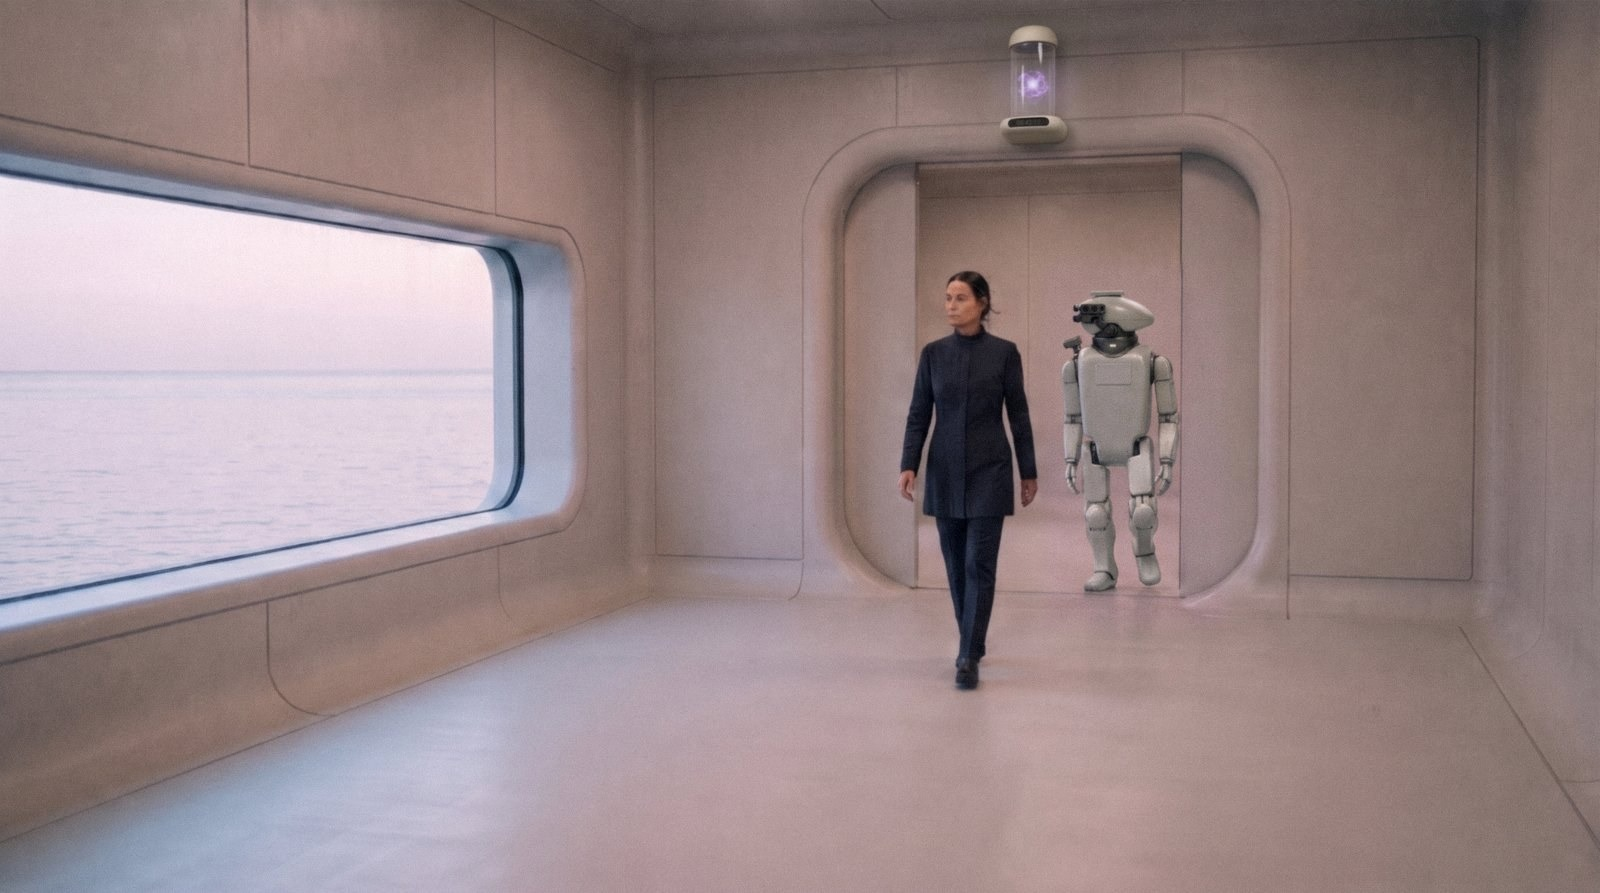
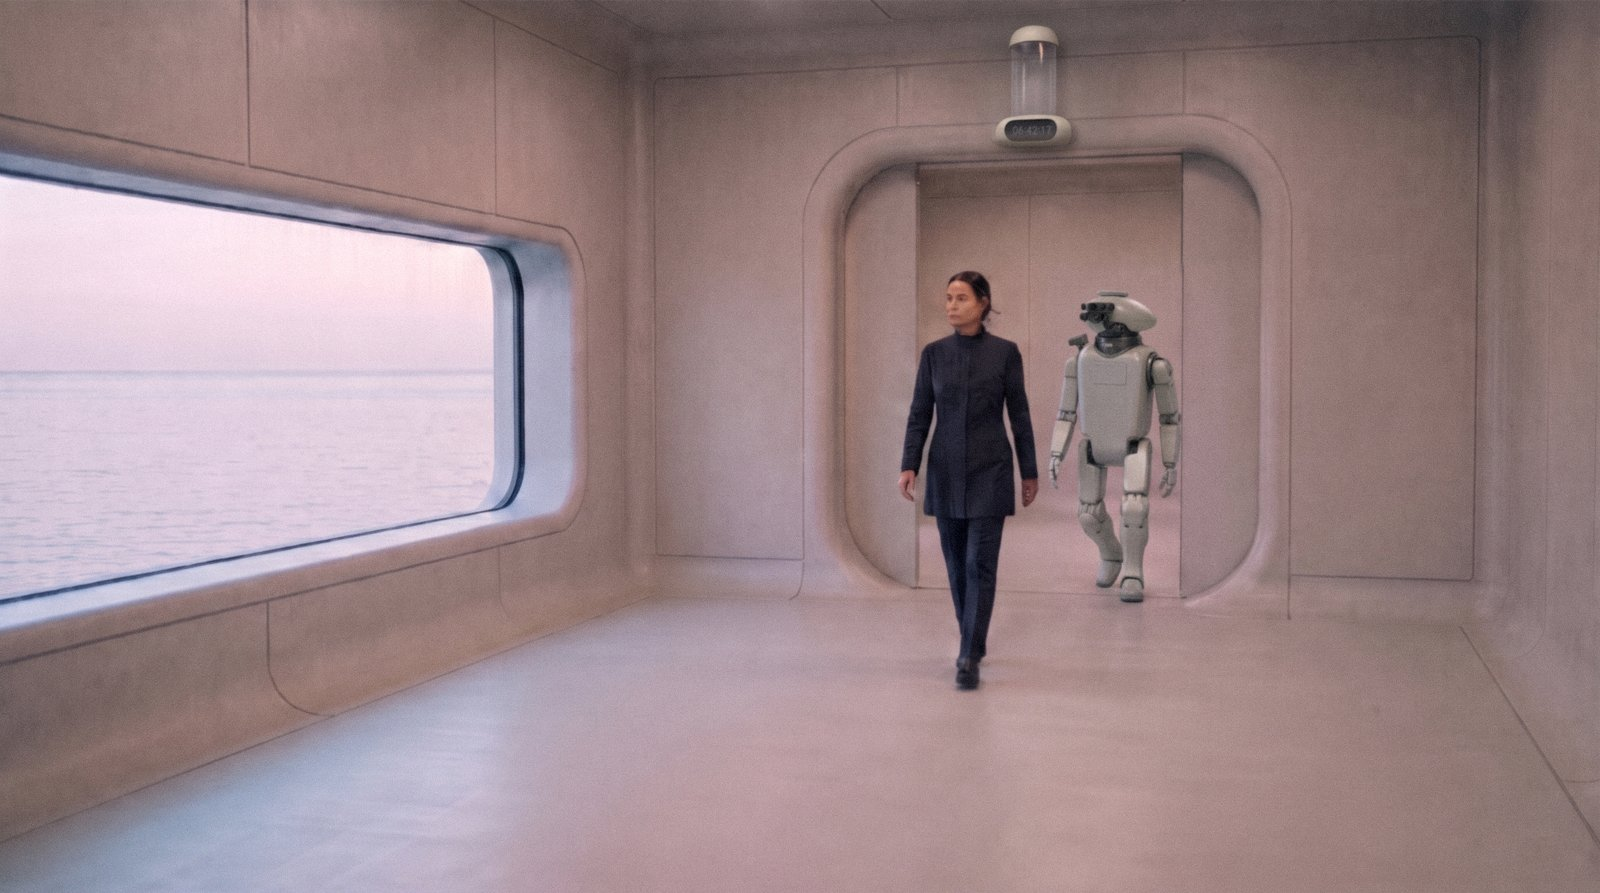
S01E01C01: the clock reads as a clock, Rook-7 walks
Glow gone and a wide readout showing 06:42:17; Rook-7 mid-stride with a
bent knee and swinging arms, body unchanged. Two edit rounds composited,
digits set by script. Dermot's "Clock and robot".

Changed region(s): [[0.625, 0.3326, 0.75, 0.6954], [0.625, 0.0605, 0.6875, 0.1512], [0.5625, 0.4535, 0.5938, 0.4838]]

diff --git a/story-bible/image-prompts.md b/story-bible/image-prompts.md
@@ -6302,3 +6302,22 @@ No generator: deterministic cards from `make-codex-cover.ps1` with the new `-Acc
 .\scripts\make-codex-cover.ps1 -TitleLines "THE TWO SONGS","OF THE LOUD PEOPLE" -Category "XENOLOGY RECORD" -Subtitle "A Keeper's Account of Humanity" -Institution "Rendered from Chorus-Keeping · Archive Translation Desk" -Author "KEEPER VHEN OF THAVREN" -Stamp "RENDERED" -Motif dissolution -Accent "#9FC8A6" -Symbol open -Out src\images\codex\the-two-songs-of-the-loud-people.jpg
 .\scripts\make-codex-cover.ps1 -TitleLines "WHAT THE","STONES SAY" -Category "CULTURAL RECORD" -Institution "Survey Archive, Threshold Station" -Author "ODAL FERREN, LINE-KEEPER, QUERN" -Motif rules -Accent "#B3A4D4" -Symbol leaves -Out src\images\codex\what-the-stones-say.jpg
 ```
+
+## 2026-11-24 — S01E01C01: the clock reads as a clock, Rook-7 walks (Opus, desktop)
+
+Dermot asked of the frame *"Does this image look like a clock above a door or some kind of AI monitoring system?"* and *"Does the robot look clumsy and awkward in that image?"*. Read for him: the glowing violet cylinder read as an AI core and the readout was too small to see; Rook-7 walked stiff-legged with dead arms. He chose *"Clock and robot"*. An image fix, so Opus (fable-delegation).
+
+### chapters/s01e01c01.jpg — re-filed 24 November 2026
+- **Kind:** an edit of the filed frame, with a reference, then a composite of two takes and readout digits set by script.
+- **Source:** the filed `s01e01c01.jpg`; reference `story-bible/reference-art/rook-7-body-2026-11-16.jpg` (the machine only).
+- **Run:** `scripts/image-edit.js`, two rounds. Round 1 (the prompt below without its *pixel for pixel* clause): take 1 refused by the provider's filter, take 2 fixed the clock but redrew her face. Round 2 (the prompt below): take 1 kept her face and gave Rook-7 the stride but turned the readout cream; take 2 gave the clearest clock (glow gone, wide dark readout) but put a screen on Rook-7's chest; take 3 refused. **Filed:** round 2 take 1, with take 2's clock pasted in (box 1660,10 to 1940,270 at 2752 px, feathered 14 px), then `set-readouts.py --box 1740,213,70,22 --text 06:42:17`, imported at 1600 px, strength 1, provenance generated.
+- **Note:** this frame's clock now shows no violet glow; the Season 1 hero's clock keeps its faint cloud. The design is the same instrument; the glow is the atoms, which this frame no longer shows.
+- **Prompt:**
+
+> Edit the first image, a photograph. Do not reframe, crop, zoom or redraw the room. Keep everything exactly as it is, pixel for pixel where possible: above all the tall pale woman walking in must stay completely untouched, the very same person with the identical face, features, age, hair, dark high-necked garment, pose and stride, not redrawn; the open rounded pressure seal and its reveal; the pale dock walls and floor; the long window onto the calm sea at dawn; the framing, light, focus and grain. Change only two things.
+>
+> First, the clock high above the open pressure seal. Keep it in the same place, on the same short cream bracket, as the same kind of instrument: an upright clear glass cylinder with a rounded cream cap on a smooth rounded cream base. Make the violet light inside the glass much fainter: a barely visible pale haze, not a glowing cloud, so that nothing in the frame glows. Make the base wider and its dark recessed readout window much larger, a broad matte panel filling most of the front of the base, so that it reads at a glance as the face of a clock. The readout window is matte, unlit and completely blank: no digits, no numerals, no text, no light.
+>
+> Second, the robot walking a few steps behind her through the seal. Keep exactly the same robot, as in the second image: the same tall broad matte pale grey trunk, the same scuffed limb casings, the same low wide rounded head unit on its dark collar with the lens cluster turned aside, at the same size and in the same place. Change only its posture: give it the easy walking stride of a machine that has walked these docks for decades, mid-step, one foot planted and the other leg swinging through with the knee clearly bent, the hips and shoulders turned slightly with the step, the arms swinging a little, loosely, opposite to the legs, the trunk leaning very slightly forward. Unhurried and sure-footed, not stiff, not marching.
+>
+> No other new objects, no screens, no lettering. A documentary photograph, not a render.

diff --git a/src/seasons/s01/e01/s01e01c01.md b/src/seasons/s01/e01/s01e01c01.md
@@ -11,7 +11,7 @@ timestamp: "2826 UCSD, Early Autumn, Dawn"
 location: "Threshold Station, Dock Seven"
 description: "Three very different arrivals converge at Threshold Station as something old begins to stir in the boundary layer."
 image: "s01e01c01.jpg"
-image_alt: "A tall pale woman in a dark high-necked garment walks into a wide pale dock through an open rounded pressure seal, her eyes turned aside to read the room; a broad pale grey robot of an older make, a low wide rounded unit on a dark collar above its shoulders with a lens cluster turned aside, follows a few steps behind her. High above the seal hangs a clock, a glass cylinder with a faint violet glow on a cream base whose small dark readout shows 06:42:17. A long rounded window at the left shows a calm sea under a pink-grey dawn."
+image_alt: "A tall pale woman in a dark high-necked garment walks into a wide pale dock through an open rounded pressure seal, her eyes turned aside to read the room; a broad pale grey robot of an older make, a low wide rounded unit on a dark collar above its shoulders with a lens cluster turned aside, follows a few steps behind her in an easy mid-stride, one knee bent and its arms swinging loosely. High above the seal hangs a clock, a clear glass cylinder on a cream base whose wide dark readout shows 06:42:17. A long rounded window at the left shows a calm sea under a pink-grey dawn."
 canon_facts:
   - "Threshold Station sits where the Interval between two universes narrows; this produces measurable instrument drift."
   - "Krenyi do not interbreed with humans and cannot be enslaved or mythified."

diff --git a/changelog.d/2026-11-24-s01e01c01-clock-and-rook-7-s-stride.md b/changelog.d/2026-11-24-s01e01c01-clock-and-rook-7-s-stride.md
@@ -1,0 +1,1 @@
+- **S01E01C01's frame: the clock reads as a clock, and Rook-7 walks** (`src/images/chapters/s01e01c01.jpg`, `story-bible/image-prompts.md`, 2026-11-24, Opus, Dermot's *"Clock and robot"*). He asked whether the glowing cylinder above the pressure seal looked like a clock or an AI monitor, and whether the robot looked clumsy. The violet glow is gone, the readout is wide enough to show *06:42:17* at page size, and Rook-7 is mid-stride with a bent knee and swinging arms. His body is unchanged, and so is everything else in the frame.
